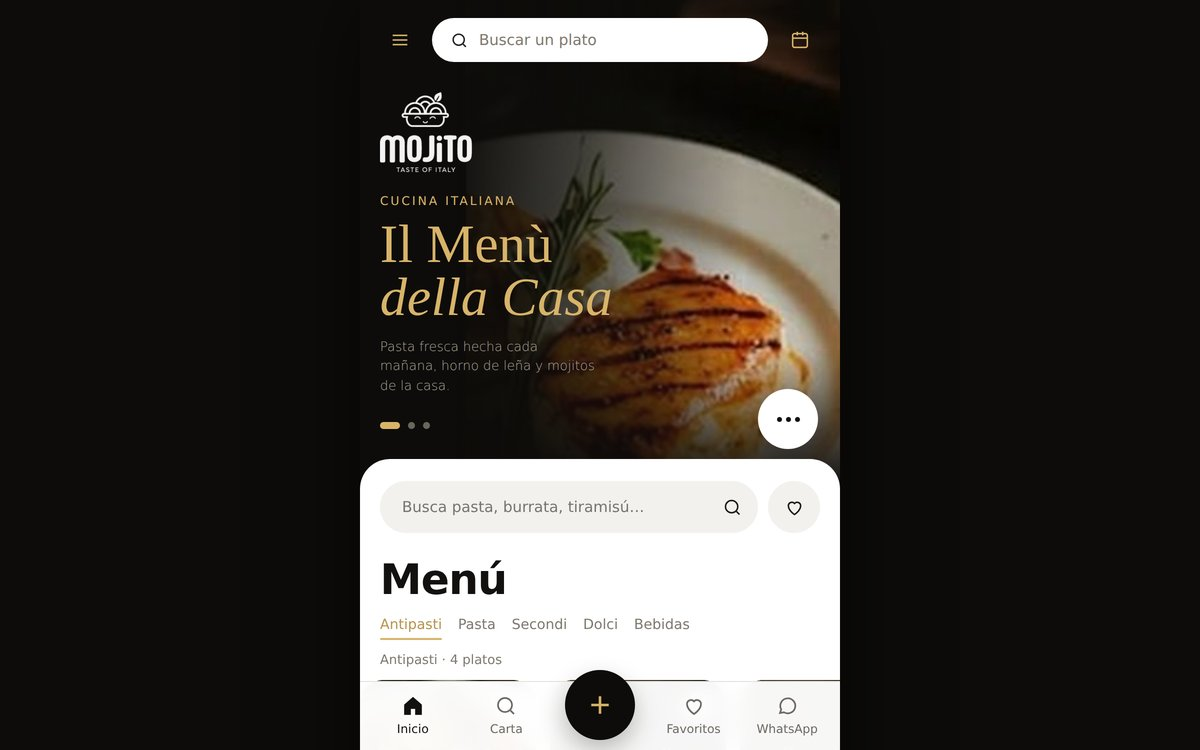
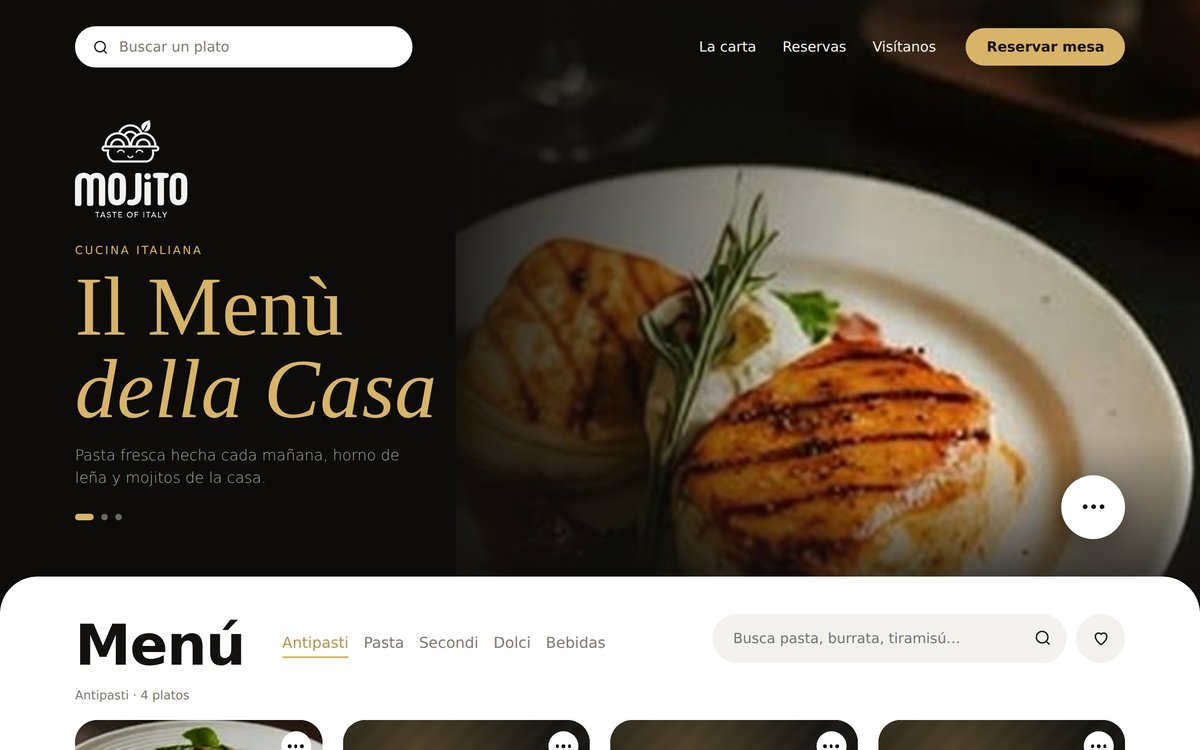
Mojito en vista completa, reordena portafolio y agrega boton flotante de WhatsApp

diff --git a/index.html b/index.html
@@ -550,6 +550,17 @@
   .live-band a.alt{background:transparent;border:1px solid rgba(255,255,255,.28);}
   .live-band a.alt:hover{border-color:var(--azul);color:var(--azul);}
 
+  /* botón flotante de WhatsApp */
+  .wa-float{position:fixed;z-index:80;right:22px;bottom:calc(22px + env(safe-area-inset-bottom,0px));width:60px;height:60px;border-radius:50%;background:#25D366;color:#fff;display:flex;align-items:center;justify-content:center;box-shadow:0 14px 30px -8px rgba(37,211,102,.6),0 6px 16px rgba(0,0,0,.18);transition:transform .18s ease,box-shadow .2s;animation:waPulse 2.6s ease-in-out infinite;}
+  .wa-float:hover{transform:scale(1.08);box-shadow:0 18px 38px -8px rgba(37,211,102,.7);}
+  .wa-float svg{width:32px;height:32px;fill:#fff;}
+  .wa-float .wa-tip{position:absolute;right:72px;white-space:nowrap;background:#14123B;color:#fff;font-size:13px;font-weight:600;padding:8px 13px;border-radius:100px;box-shadow:var(--shadow-sm);opacity:0;transform:translateX(8px);pointer-events:none;transition:.2s;}
+  .wa-float:hover .wa-tip{opacity:1;transform:translateX(0);}
+  @media(max-width:600px){ .wa-float{width:54px;height:54px;right:16px;} .wa-float svg{width:29px;height:29px;} .wa-float .wa-tip{display:none;} }
+  @keyframes waPulse{0%,100%{box-shadow:0 14px 30px -8px rgba(37,211,102,.6),0 0 0 0 rgba(37,211,102,.5)}50%{box-shadow:0 14px 30px -8px rgba(37,211,102,.6),0 0 0 12px rgba(37,211,102,0)}}
+  @media(prefers-reduced-motion:reduce){ .wa-float{animation:none;} }
+  @media print{ .wa-float{display:none;} }
+
   @media(prefers-reduced-motion:reduce){*{scroll-behavior:auto!important;animation:none!important;transition:none!important;}}
 </style>
 
@@ -710,6 +721,26 @@
       <div class="pf-track" id="pfTrack">
 
         <div class="pf-card">
+          <div class="pf-window"><div class="pf-bar"><div class="pf-dots"><span></span><span></span><span></span></div><div class="pf-url">altavistacabanas.com</div></div></div>
+          <div class="pf-shot" style="background-image:url('port-altavista.jpg')"><span class="pf-badge"><span class="lv"></span>En vivo</span></div>
+          <div class="pf-meta">
+            <span class="pf-tag">Hospedaje · Reservas</span>
+            <h3>Altavista Cabañas</h3>
+            <p>Buscador de disponibilidad y reserva de cabañas con calendario, huéspedes y pago por WhatsApp.</p>
+          </div>
+        </div>
+
+        <div class="pf-card">
+          <div class="pf-window"><div class="pf-bar"><div class="pf-dots"><span></span><span></span><span></span></div><div class="pf-url">mojitotrattoria.com</div></div></div>
+          <div class="pf-shot" style="background-image:url('port-mojito.jpg')"><span class="pf-badge"><span class="lv"></span>En vivo</span></div>
+          <div class="pf-meta">
+            <span class="pf-tag">Restaurante · Menú digital</span>
+            <h3>Mojito Trattoria</h3>
+            <p>Menú digital por categorías con buscador, favoritos y reservas de mesa por WhatsApp.</p>
+          </div>
+        </div>
+
+        <div class="pf-card">
           <div class="pf-window"><div class="pf-bar"><div class="pf-dots"><span></span><span></span><span></span></div><div class="pf-url">davfoorlegend.com</div></div></div>
           <div class="pf-shot" style="background-image:url('port-davfoor.jpg')"><span class="pf-badge"><span class="lv"></span>En vivo</span></div>
           <div class="pf-meta">
@@ -746,26 +777,6 @@
             <span class="pf-tag">Landing + catálogo</span>
             <h3>Invitaciones Tiale</h3>
             <p>Landing de invitaciones digitales con catálogo de diseños, RSVP por WhatsApp y planes.</p>
-          </div>
-        </div>
-
-        <div class="pf-card">
-          <div class="pf-window"><div class="pf-bar"><div class="pf-dots"><span></span><span></span><span></span></div><div class="pf-url">mojitotrattoria.com</div></div></div>
-          <div class="pf-shot" style="background-image:url('port-mojito.jpg')"><span class="pf-badge"><span class="lv"></span>En vivo</span></div>
-          <div class="pf-meta">
-            <span class="pf-tag">Restaurante · Menú digital</span>
-            <h3>Mojito Trattoria</h3>
-            <p>Menú digital por categorías con buscador, favoritos y reservas de mesa por WhatsApp.</p>
-          </div>
-        </div>
-
-        <div class="pf-card">
-          <div class="pf-window"><div class="pf-bar"><div class="pf-dots"><span></span><span></span><span></span></div><div class="pf-url">altavistacabanas.com</div></div></div>
-          <div class="pf-shot" style="background-image:url('port-altavista.jpg')"><span class="pf-badge"><span class="lv"></span>En vivo</span></div>
-          <div class="pf-meta">
-            <span class="pf-tag">Hospedaje · Reservas</span>
-            <h3>Altavista Cabañas</h3>
-            <p>Buscador de disponibilidad y reserva de cabañas con calendario, huéspedes y pago por WhatsApp.</p>
           </div>
         </div>
 
@@ -944,6 +955,11 @@
     <div class="fbot"><span>© <span id="yr"></span> Tiale · Páginas web a la medida</span><span>Diseñado y <i>programado</i> con cariño</span></div>
   </div>
 </footer>
+
+<a class="wa-float" data-wa href="#" aria-label="Escríbenos por WhatsApp">
+  <span class="wa-tip">¿Hablamos? Escríbenos</span>
+  <svg viewBox="0 0 24 24" aria-hidden="true"><path d="M12.04 2C6.58 2 2.13 6.45 2.13 11.91c0 1.75.46 3.45 1.32 4.95L2.05 22l5.25-1.38a9.9 9.9 0 0 0 4.74 1.21h.004c5.46 0 9.9-4.45 9.9-9.91 0-2.65-1.03-5.14-2.9-7.01A9.82 9.82 0 0 0 12.04 2zm5.8 14.06c-.25.7-1.44 1.33-1.99 1.37-.53.05-1.02.24-3.42-.71-2.89-1.14-4.73-4.09-4.87-4.28-.14-.19-1.16-1.54-1.16-2.94s.73-2.08 1-2.37c.26-.28.57-.35.76-.35l.55.01c.18.01.41-.07.64.49.25.6.84 2.06.91 2.2.07.14.12.31.02.5-.1.19-.15.31-.29.48-.14.17-.3.38-.43.51-.14.14-.29.29-.12.57.16.28.73 1.2 1.56 1.95 1.07.95 1.97 1.25 2.25 1.39.28.14.44.12.6-.07.16-.19.69-.81.88-1.09.18-.28.37-.23.62-.14.25.09 1.6.76 1.87.9.28.14.46.21.53.32.07.11.07.65-.18 1.34z"/></svg>
+</a>
 </main>
 
 
